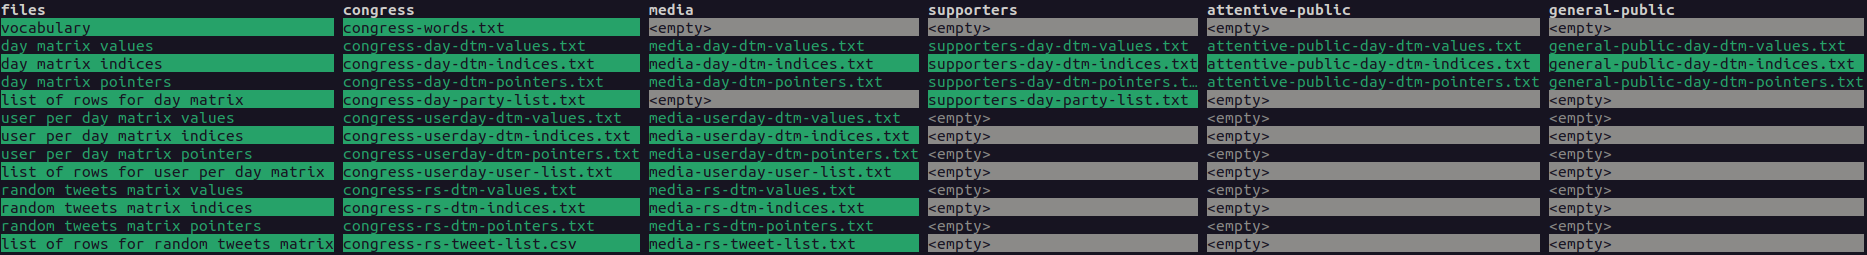
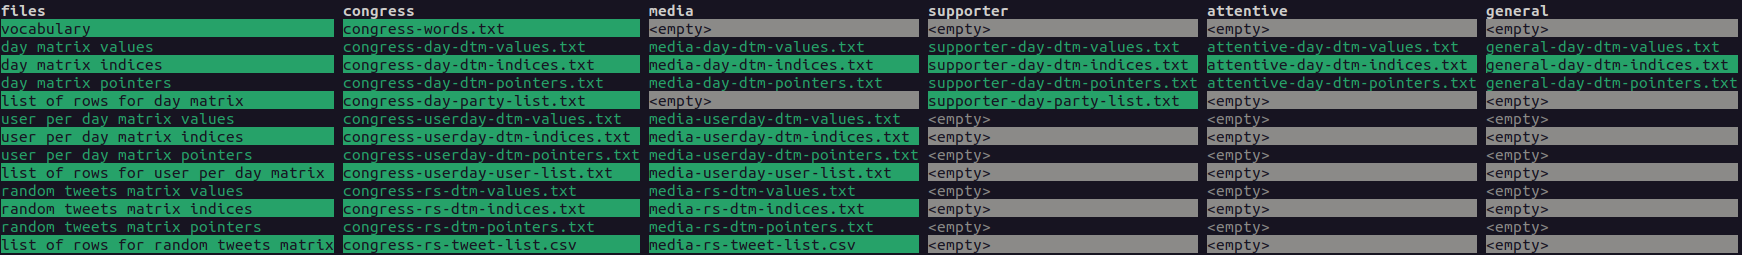
Fix supporters vs supporter bug

Changed region(s): [[0.0, 0.0, 1.0, 1.0]]

diff --git a/01-create-dtm.py b/01-create-dtm.py
@@ -244,7 +244,7 @@ if __name__ == "__main__":
         group_by_file(
             args.folder,
             nb_files,
-            args.public in ["congress", "supporters"],
+            args.public in ["congress", "supporter"],
             args.public,
         )
     )
